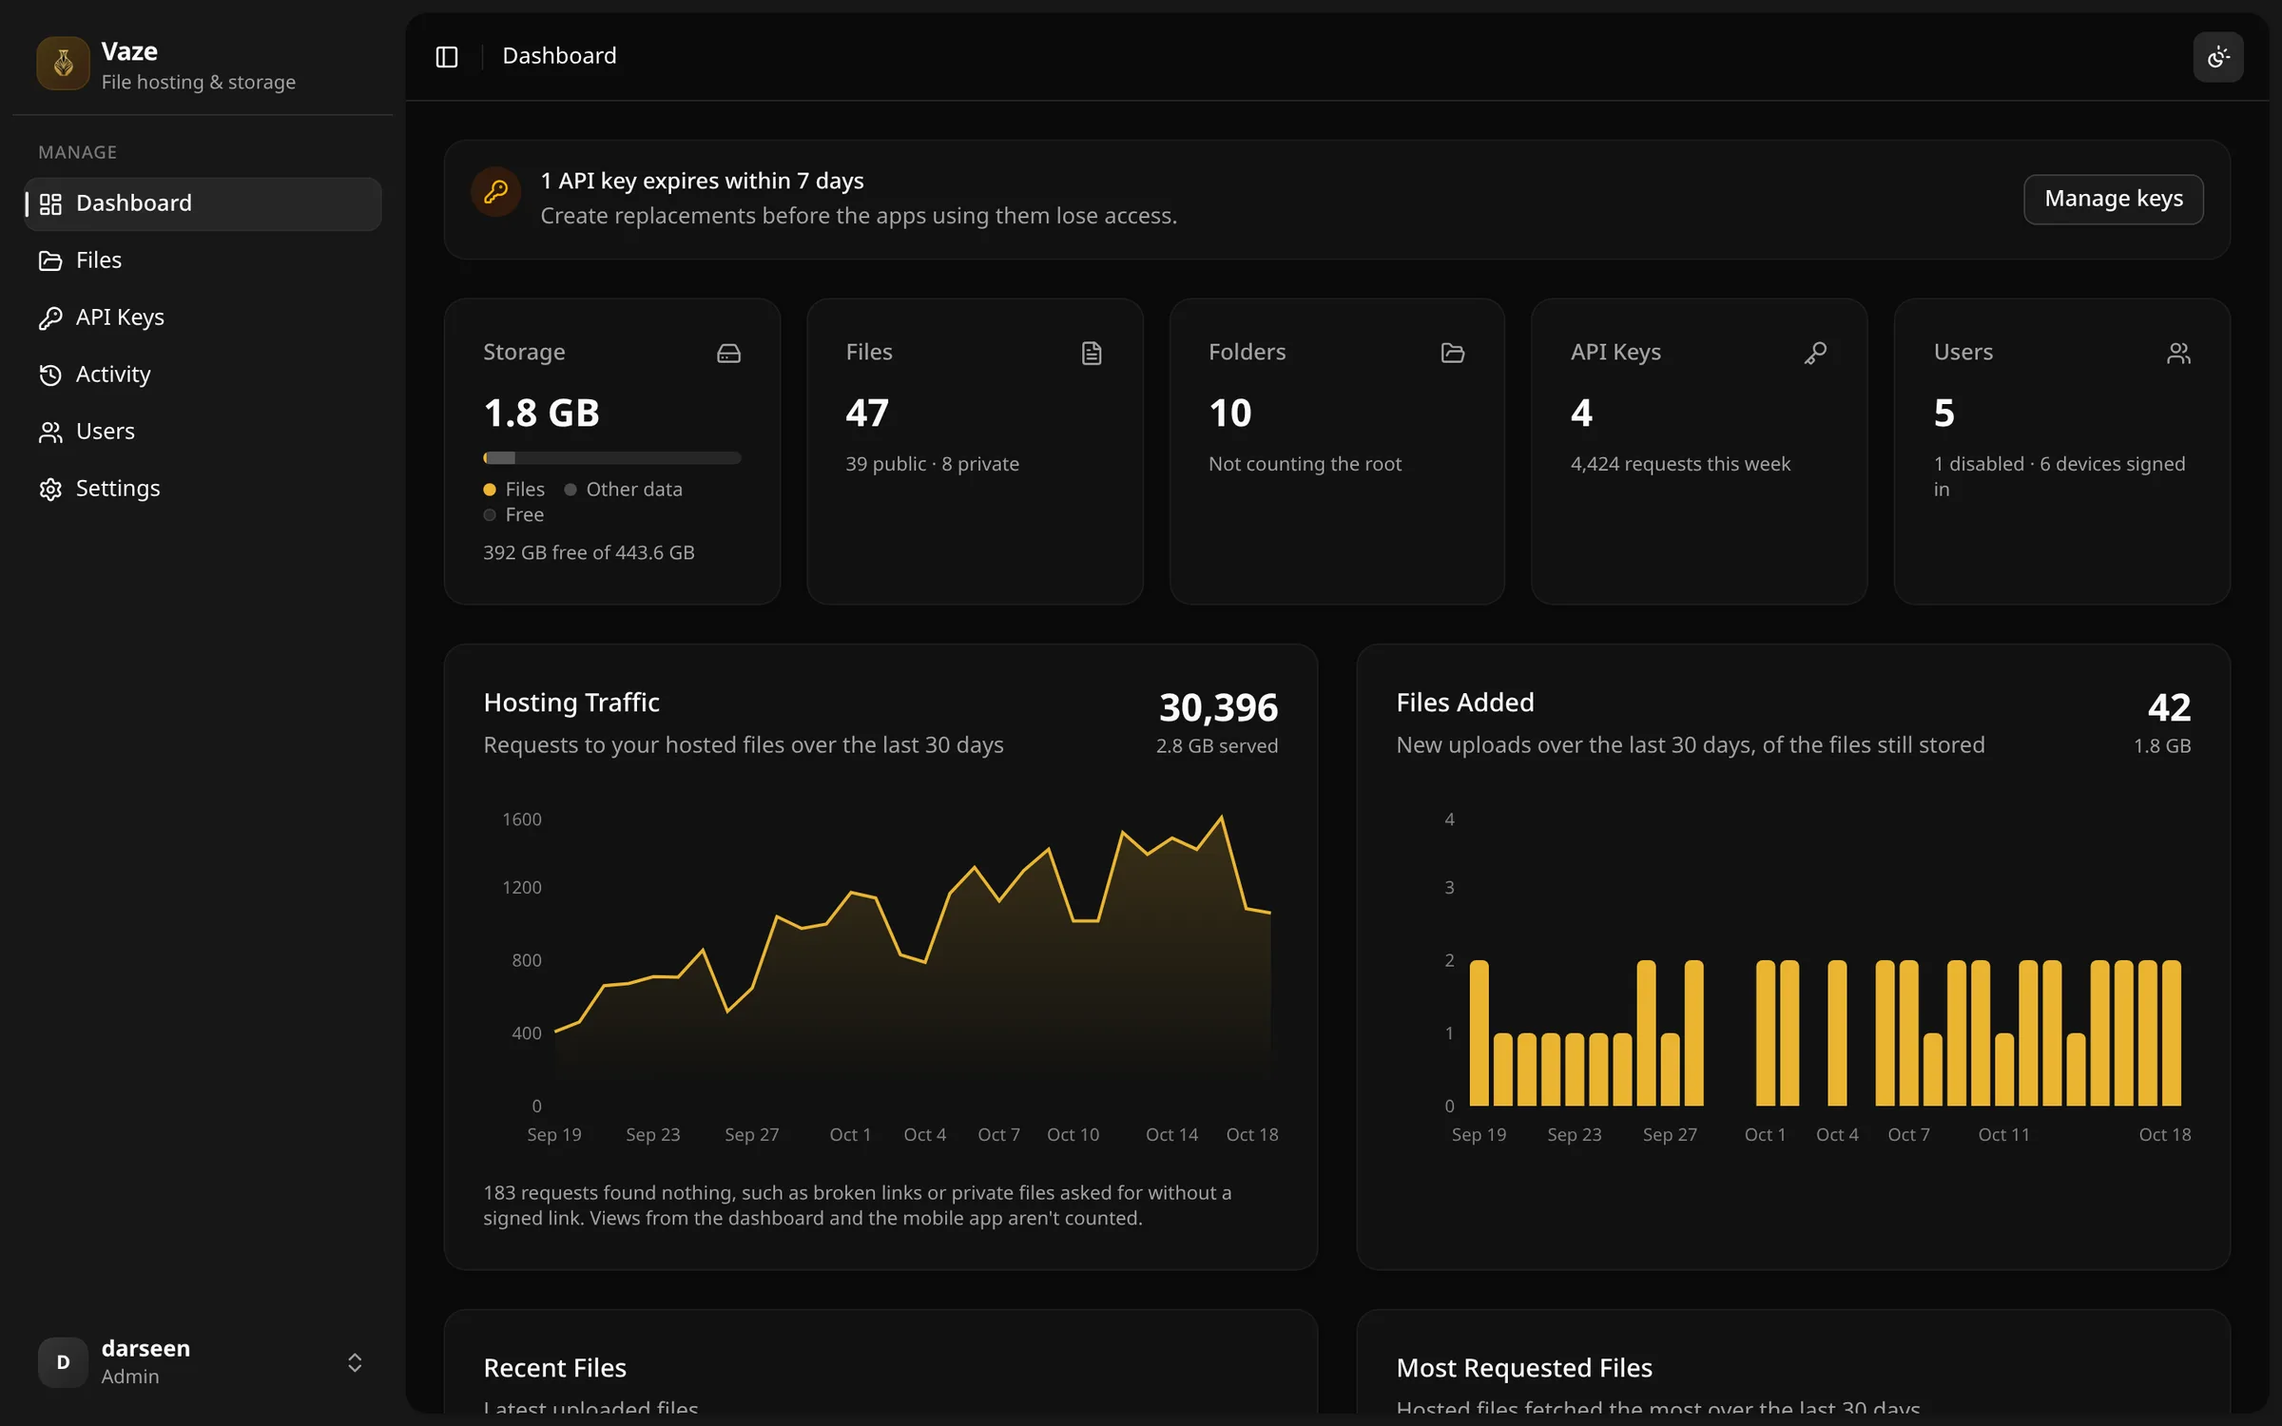
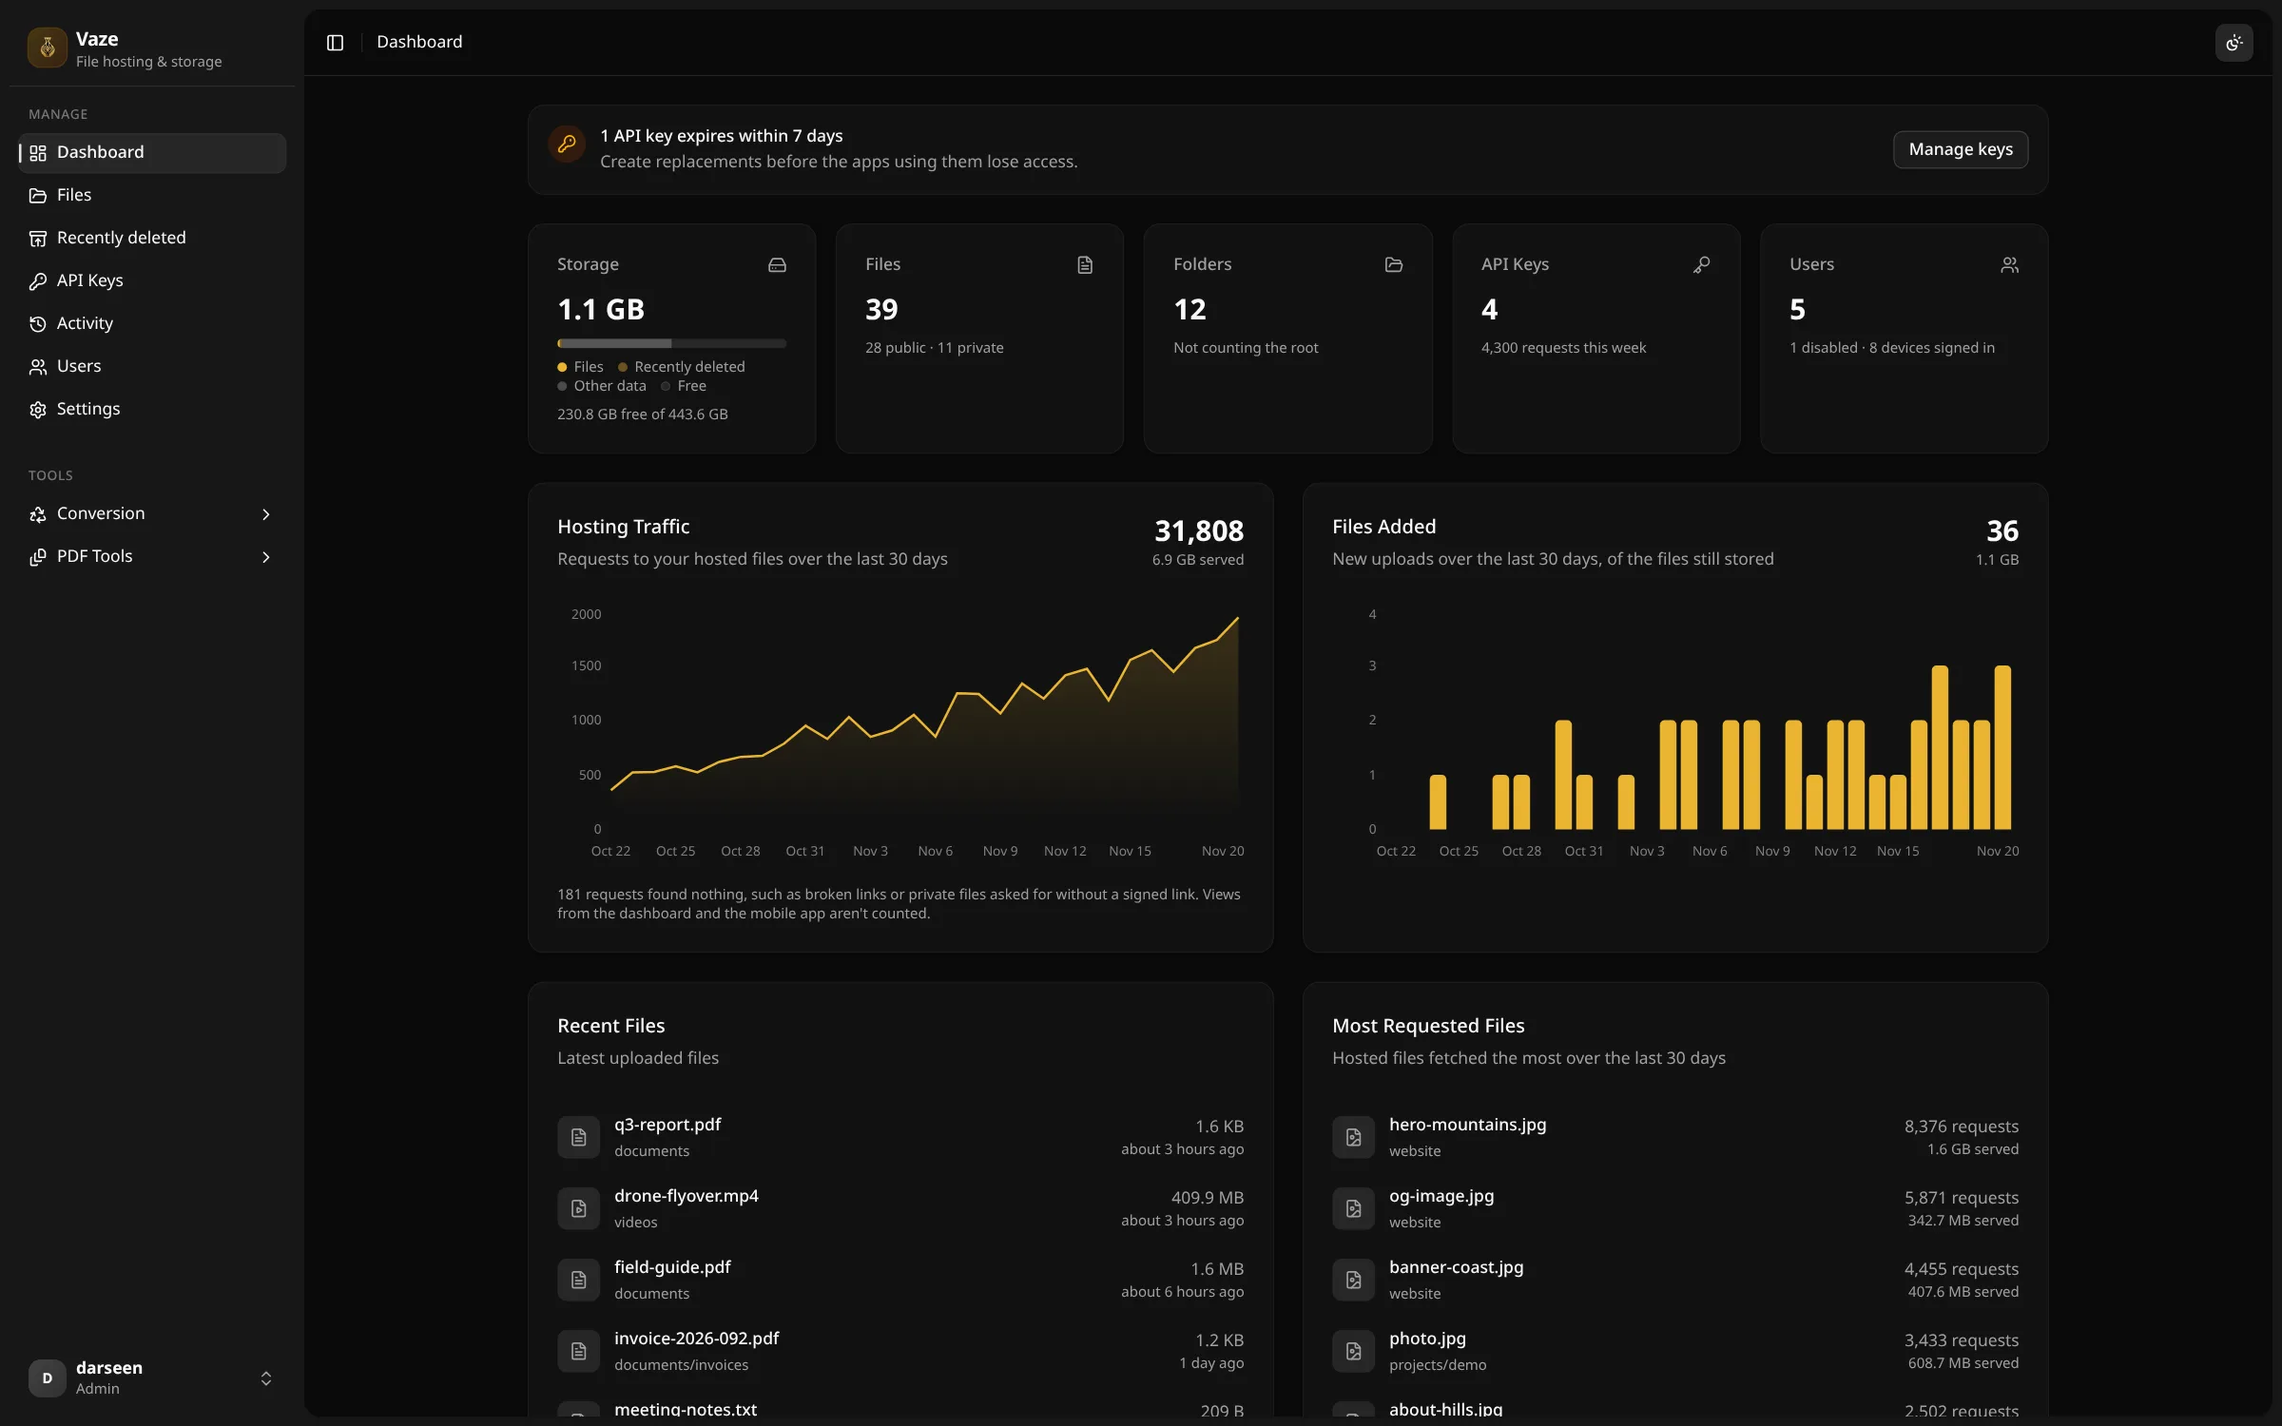
docs: README and website show the conversion and PDF tools, with fresh screenshots and the benchmarks

diff --git a/apps/website/app/(home)/page.tsx b/apps/website/app/(home)/page.tsx
@@ -3,7 +3,10 @@ import { highlight } from "fumadocs-core/highlight";
 import {
   BellRing,
   ChartLine,
-  Download,
+  Clapperboard,
+  FileImage,
+  FilePen,
+  FileType,
   FolderUp,
   Gauge,
   History,
@@ -11,11 +14,13 @@ import {
   LayoutDashboard,
   ListChecks,
   Lock,
+  Scaling,
   ScanEye,
   Search,
   Server,
   Upload,
   Users,
+  Wrench,
   type LucideIcon,
 } from "lucide-react";
 import type { Metadata } from "next";
@@ -111,7 +116,7 @@ const fileFeatures: Feature[] = [
   {
     icon: ListChecks,
     title: "Work on many at once",
-    text: "Select files to move or delete together, or download a folder or a selection as one zip.",
+    text: "Move, delete or zip a whole selection, and restore anything deleted by mistake from Recently deleted.",
   },
 ];
 
@@ -127,9 +132,37 @@ const hostingFeatures: Feature[] = [
     text: "Range requests let video and audio seek, and ETag revalidation turns repeat loads into an empty 304.",
   },
   {
+    icon: Scaling,
+    title: "Images sized for the page",
+    text: "Add ?w=800&format=webp to an image's link and Vaze serves a smaller copy, made once and kept.",
+  },
+  {
     icon: ChartLine,
     title: "Traffic you can see",
     text: "The dashboard counts requests and bytes served, ranks your most requested files and flags links that found nothing.",
+  },
+];
+
+const toolFeatures: Feature[] = [
+  {
+    icon: Clapperboard,
+    title: "Video converter",
+    text: "Compress videos or turn them into MP4, WebM, MOV, MKV or GIF. Resize, trim and mute them, or keep only the sound as an MP3.",
+  },
+  {
+    icon: FileImage,
+    title: "Image converter",
+    text: "Turn HEIC photos and other images into WebP, JPG, PNG or AVIF, and shrink them for the web.",
+  },
+  {
+    icon: FilePen,
+    title: "PDF tools",
+    text: "Merge and split PDFs, and move, turn, remove and number their pages before saving a new copy.",
+  },
+  {
+    icon: FileType,
+    title: "Documents to PDF",
+    text: "Word, Excel, PowerPoint and OpenDocument files become PDFs with LibreOffice, which comes in the image.",
   },
 ];
 
@@ -164,13 +197,13 @@ const mobileFeatures: Feature[] = [
   },
   {
     icon: Upload,
-    title: "Upload from your phone",
-    text: "Send photos, videos and documents with live progress, and cancel any of them.",
+    title: "Upload, save and share",
+    text: "Send photos, videos and documents with live progress, and save files to Downloads or hand them to another app.",
   },
   {
-    icon: Download,
-    title: "Save and share",
-    text: "Save files to your Downloads folder, or hand them to another app with the share sheet.",
+    icon: Wrench,
+    title: "Tools on the go",
+    text: "Compress a video, convert a photo or merge PDFs from the Tools tab, with files from your phone or the server.",
   },
   {
     icon: LayoutDashboard,
@@ -272,9 +305,10 @@ export default async function HomePage() {
           </h1>
           <p className="mt-6 max-w-2xl text-lg leading-relaxed text-fd-muted-foreground sm:text-xl lg:text-lg">
             {appName} is a file server that runs in one Docker container.
-            Organize files from the web dashboard or the Android app, share
-            them with public or signed links, and use it as the storage
-            behind your own projects.
+            Organize files from the web dashboard or the Android app, share them
+            with public or signed links, convert videos, images and PDFs without
+            them leaving your server, and use it as the storage behind your own
+            projects.
           </p>
 
           <div className="mt-8">
@@ -378,18 +412,55 @@ export default async function HomePage() {
 
         <section>
           <div className="grid items-center gap-12 lg:grid-cols-[5fr_7fr]">
-            <SectionHeading title="Decide who gets in">
-              {appName} starts with one admin account. Add people when you
-              need to, and give each of them only the access they need.
+            <SectionHeading title="Convert files where they're stored">
+              Compress videos, convert images and rework PDFs on your own
+              server, from the dashboard or the app. Files never go to a
+              third-party service.
             </SectionHeading>
-            <BrowserFrame address={`${serverAddress}/dashboard/users`}>
-              <Screenshot
-                kind="web"
-                name="users"
-                alt="The users page with an admin, editors, a custom role and a disabled account"
-                sizes="(min-width: 1024px) 660px, 92vw"
-              />
-            </BrowserFrame>
+            <div className="relative pb-[10%]">
+              <div className="w-[88%]">
+                <BrowserFrame address={`${serverAddress}/dashboard/pdf/edit`}>
+                  <Screenshot
+                    kind="web"
+                    name="pdf"
+                    alt="Editing a field guide's pages: one turned, one removed and one moved"
+                    sizes="(min-width: 1024px) 580px, 82vw"
+                  />
+                </BrowserFrame>
+              </div>
+              <div className="absolute right-0 bottom-0 w-[24%]">
+                <PhoneFrame>
+                  <Screenshot
+                    kind="mobile"
+                    name="video"
+                    alt="A coastal video fitted to 25 MB in the app"
+                    sizes="(min-width: 1024px) 160px, 24vw"
+                  />
+                </PhoneFrame>
+              </div>
+            </div>
+          </div>
+          <FeatureList features={toolFeatures} />
+        </section>
+
+        <section>
+          <div className="grid items-center gap-12 lg:grid-cols-[7fr_5fr]">
+            <div className="lg:order-2">
+              <SectionHeading title="Decide who gets in">
+                {appName} starts with one admin account. Add people when you
+                need to, and give each of them only the access they need.
+              </SectionHeading>
+            </div>
+            <div className="lg:order-1">
+              <BrowserFrame address={`${serverAddress}/dashboard/users`}>
+                <Screenshot
+                  kind="web"
+                  name="users"
+                  alt="The users page with an admin, editors, a custom role and a disabled account"
+                  sizes="(min-width: 1024px) 660px, 92vw"
+                />
+              </BrowserFrame>
+            </div>
           </div>
           <FeatureList features={accessFeatures} />
         </section>
@@ -413,8 +484,8 @@ export default async function HomePage() {
                 <PhoneFrame>
                   <Screenshot
                     kind="mobile"
-                    name="viewer"
-                    alt="A photo open in the app's viewer"
+                    name="tools"
+                    alt="The app's Tools tab with the conversion and PDF tools"
                     sizes="(min-width: 1024px) 200px, 30vw"
                   />
                 </PhoneFrame>
@@ -422,8 +493,8 @@ export default async function HomePage() {
               <PhoneFrame>
                 <Screenshot
                   kind="mobile"
-                  name="traffic"
-                  alt="Hosting traffic and the most requested files in the app"
+                  name="viewer"
+                  alt="A photo open in the app's viewer"
                   sizes="(min-width: 1024px) 200px, 30vw"
                 />
               </PhoneFrame>

diff --git a/apps/website/lib/benchmarks.ts b/apps/website/lib/benchmarks.ts
@@ -23,10 +23,10 @@ export interface Scenario {
 export const benchmarkRun = {
   date: "November 16, 2026",
   runs: 5,
-  // point this at the release that ships commit de92f62 once it is tagged
+  // the first release with commit de92f62, the build that was measured
   vazeBuild: {
-    label: "commit de92f62",
-    url: `${repoUrl}/commit/de92f62`,
+    label: "4.6.0",
+    url: `${repoUrl}/tree/v4.6.0`,
   },
   seafileVersion: "14.0.9",
   machine: {

diff --git a/apps/website/lib/shared.ts b/apps/website/lib/shared.ts
@@ -1,6 +1,6 @@
 export const appName = "Vaze";
 export const siteDescription =
-  "Vaze is a self-hosted file storage and hosting server with a web dashboard, an Android app and an SDK.";
+  "Vaze is a self-hosted file storage and hosting server with video, image and PDF tools, a web dashboard, an Android app and an SDK.";
 export const docsRoute = "/docs";
 export const privacyRoute = "/privacy";
 export const benchmarksRoute = "/benchmarks";

diff --git a/README.md b/README.md
@@ -15,36 +15,51 @@
 
 </div>
 
-**Vaze** is a self-hosted file storage and hosting service that runs as a single Docker container on your own server or home network. Manage your files from the web dashboard or the Android app, host them at URLs you choose, and use its API as a file backend for your other apps. Installation, configuration, the API reference and the SDK guide are all in the **[documentation](https://vaze.darseen.dev/docs)**, starting with **[installation](https://vaze.darseen.dev/docs/getting-started/installation)**.
+**Vaze** is a self-hosted file storage and hosting service that runs as a single Docker container on your own server or home network. Manage your files from the web dashboard or the Android app, host them at URLs you choose, convert videos, images and PDFs without them leaving your server, and use its API as a file backend for your other apps. Installation, configuration, the API reference and the SDK guide are all in the **[documentation](https://vaze.darseen.dev/docs)**, starting with **[installation](https://vaze.darseen.dev/docs/getting-started/installation)**.
 
 ## Features
 
-- **Files and folders**: Upload whole folders, browse with thumbnails and a viewer, and download, move or delete many files at once. Uploads stream straight to disk, so size is limited only by your volume.
-- **Hosting at URLs you choose**: Files keep the names you upload them with, so a link like `/api/hosting/projects/demo/photo.png` stays the same. Audio and video seek properly, and repeat requests are cached.
+- **Files and folders**: Upload whole folders, browse them with thumbnails, search and filter, and open images, video, audio, PDFs and text in a full-screen viewer. Move, download or delete many files at once, and restore mistakes from Recently deleted. Uploads stream straight to disk, so size is limited only by your volume.
+- **Hosting at URLs you choose**: Files keep the names you upload them with, so a link like `/api/hosting/projects/demo/photo.jpg` stays the same. Video and audio seek, repeat requests are cached, and images can be resized on the fly.
 - **Private files and signed links**: Make any file or folder private, then share it with a link that expires.
+- **Video and image conversion**: Compress and convert videos to MP4, WebM, MOV, MKV or GIF, resize, trim or mute them, or keep only their sound as an MP3. Turn HEIC photos and other images into WebP, JPG, PNG or AVIF.
+- **PDF tools**: Merge and split PDFs, move, turn and remove their pages, and make PDFs from images or from Word, Excel and PowerPoint files.
 - **Users, roles and API keys**: Add accounts as Admin, Editor or Viewer, or with a custom set of scopes, and give each API key only the access it needs.
-- **Dashboard**: See what needs attention, how your storage is used, hosting traffic, the most requested files and how each API key is used.
-- **Conversion and PDF tools**: Compress and convert videos, extract their sound, convert images, and merge, split and edit PDFs or make them from images and documents, all on your server. An admin can turn either section off.
-- **Android app**: The same files, dashboard, tools, keys and users on your phone, for as many servers as you add.
+- **Dashboard and activity**: See what needs attention, how your storage is used, hosting traffic, the most requested files and how each API key is used, with a history of uploads, deletions and account changes.
+- **Android app**: The same files, tools, dashboard, keys and users on your phone, for as many servers as you add.
 - **API and SDK**: A REST API and the [`@darseen/vaze`](https://npmjs.com/package/@darseen/vaze) TypeScript SDK for using Vaze from your own apps.
-- **Docker**: One container and one data volume. A single command installs it and later upgrades it.
+- **Docker**: One container and one data volume, with everything the tools need already inside. A single command installs it and later upgrades it.
+
+## Benchmarks
+
+Vaze and Seafile 14, a long-established self-hosted file server, ran sixteen everyday file operations on the same machine. Vaze was faster in all sixteen, from 1.4× to 33× depending on the operation: it zipped a 500 MiB photo album 16× faster, renamed, moved and deleted files 16× to 33× faster, and served 2,000 public downloads 3.6× faster. It also needed 56 MB of memory after a fresh start, against 489 MB for Seafile with its database and cache. The **[benchmarks page](https://vaze.darseen.dev/benchmarks)** has every result and how it was measured.
 
 ## Screenshots
 
 <div align="center">
   <h3> Dashboard </h3>
   <img src="./.github/images/dashboard-1.png" alt="Dashboard with an expiring key alert, storage, hosting traffic and files added over 30 days" width="100%"/>
-  <img src="./.github/images/dashboard-2.png" alt="Recent files, most requested hosted files, API requests per day and storage by file type" width="100%"/>
+  <img src="./.github/images/dashboard-2.png" alt="Recent and most requested files, API requests per key and storage by file type" width="100%"/>
 </div>
 
 <div align="center">
   <h3> Files </h3>
-  <img src="./.github/images/files.jpg" alt="A folder of photos shown as a thumbnail grid" width="100%"/>
+  <img src="./.github/images/files.jpg" alt="A folder of landscape photos shown as a thumbnail grid" width="100%"/>
 </div>
 
 <div align="center">
   <h3> File Viewer </h3>
   <img src="./.github/images/viewer.jpg" alt="A photo open in the full-screen viewer with a filmstrip of the folder" width="100%"/>
+</div>
+
+<div align="center">
+  <h3> Video Converter </h3>
+  <img src="./.github/images/video-converter.png" alt="A 410 MB video converted to a 720p WebM, 98% smaller" width="100%"/>
+</div>
+
+<div align="center">
+  <h3> PDF Tools </h3>
+  <img src="./.github/images/pdf-tools.png" alt="Editing a PDF's pages: one turned, one removed and one moved" width="100%"/>
 </div>
 
 <div align="center">
@@ -64,7 +79,7 @@
 
 <div align="center">
   <h3> Android App </h3>
-  <img src="./.github/images/mobile.png" alt="The Android app's dashboard, a photo folder, hosting traffic and activity" width="100%"/>
+  <img src="./.github/images/mobile.png" alt="The Android app's dashboard, a photo folder, the Tools tab and the video converter" width="100%"/>
 </div>
 
 <div align="center">
